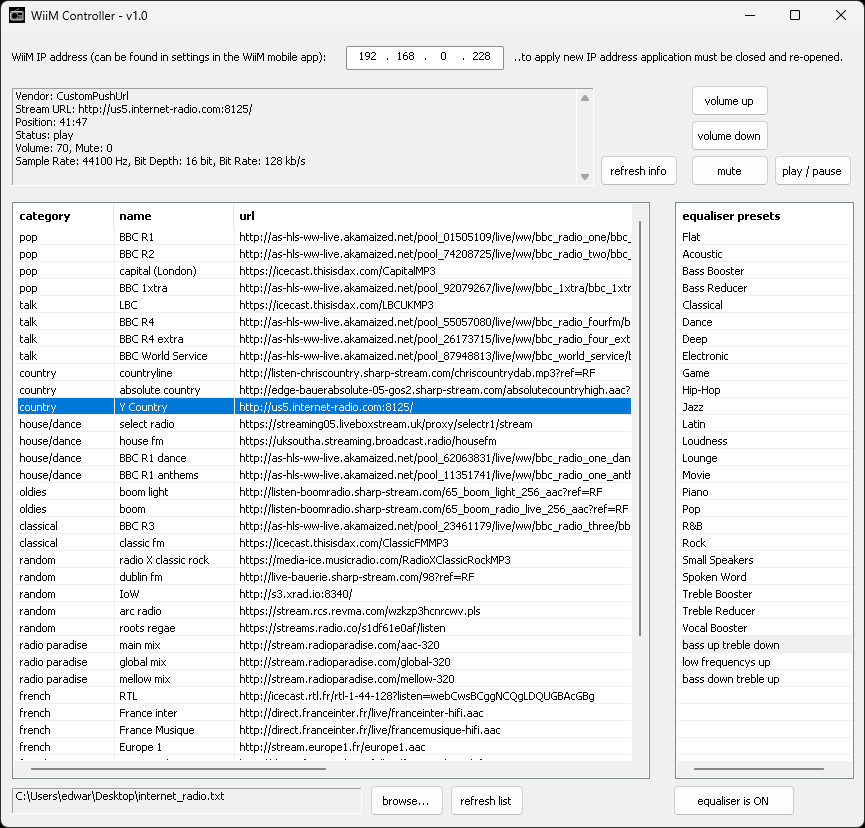
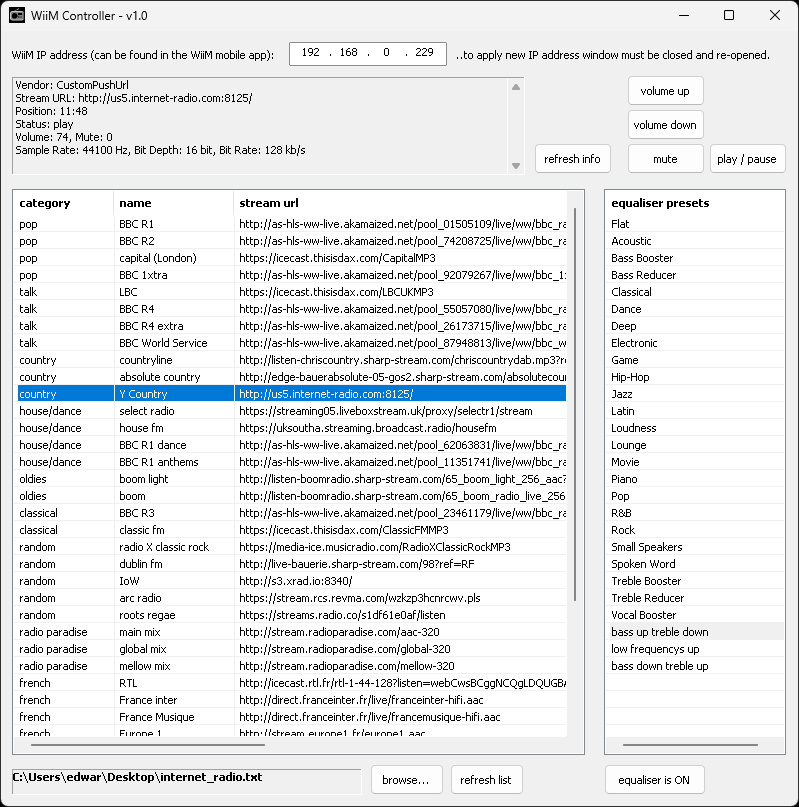
restore wnd position

diff --git a/WiiMControllerDlg.cpp b/WiiMControllerDlg.cpp
@@ -37,7 +37,8 @@ void CWiiMControllerDlg::DoDataExchange(CDataExchange* pDX)
 BEGIN_MESSAGE_MAP(CWiiMControllerDlg, CDialog)
 	ON_WM_PAINT()
 	ON_WM_QUERYDRAGICON()
-	
+	ON_WM_DESTROY()
+
 	ON_NOTIFY(LVN_ITEMCHANGED,IDC_LIST_STREAMURL,&CWiiMControllerDlg::OnLvnItemchangedListStreamurl)
 	ON_NOTIFY(LVN_ITEMCHANGED,IDC_LIST_EQ,&CWiiMControllerDlg::OnLvnItemchangedListEq)
 	ON_NOTIFY(IPN_FIELDCHANGED,IDC_IPADDRESS_WIIM,&CWiiMControllerDlg::OnIpnFieldchangedIpaddressWiim)
@@ -75,27 +76,41 @@ BOOL CWiiMControllerDlg::OnInitDialog()
 	m_IPCtrl.SetAddress(m_IPAddress.Field0, m_IPAddress.Field1, m_IPAddress.Field2, m_IPAddress.Field3);
 	m_httpClient.SetWiimIPaddress(m_IPAddress.Field0, m_IPAddress.Field1, m_IPAddress.Field2, m_IPAddress.Field3); // (192.168.0.228 in my case)
 
-	m_StreamsFilepath = AfxGetApp()->GetProfileString(REG_SECTION, _T("StreamsFilepath"), _T(""));
-	GetDlgItem(IDC_EDIT_STREAMSFILE)->SetWindowText(m_StreamsFilepath);
-
 	// stream url list initialisation
 	m_ListStream.SetExtendedStyle(LVS_EX_FULLROWSELECT | LVS_EX_GRIDLINES);
 	m_ListStream.InsertColumn(0, _T("category"), LVCFMT_LEFT, 100);
 	m_ListStream.InsertColumn(1, _T("name"), LVCFMT_LEFT, 120);
-	m_ListStream.InsertColumn(2, _T("url"), LVCFMT_LEFT, 1000);
+	m_ListStream.InsertColumn(2, _T("stream url"), LVCFMT_LEFT, 1000);
+
+	m_StreamsFilepath = AfxGetApp()->GetProfileString(REG_SECTION, _T("StreamsFilepath"), _T(""));
+	GetDlgItem(IDC_EDIT_STREAMSFILE)->SetWindowText(m_StreamsFilepath);
 	LoadStreamUrlList();
 
 	// equaliser presets list initialisation
 	m_ListEQ.SetExtendedStyle(LVS_EX_FULLROWSELECT | LVS_EX_GRIDLINES);
 	m_ListEQ.InsertColumn(0, _T("equaliser presets"), LVCFMT_LEFT, 190);
 
+	if(GetInfoFromDeviceAndPopulateUI()){
+		SelectListItems();
+		m_Initialised = 1; // this must after the list control SetItemState/EnsureVisible calls because they will trigger a OnLvnItemchangedListStreamurl event.
+	}
+	
+	ApplyCustomFont();
+	RestoreWindowPos();
+	UpdateStatusEditBox();
+
+	return TRUE;  // return TRUE unless you set the focus to a control
+}
+
+void CWiiMControllerDlg::ApplyCustomFont()
+{
 	// create bold font once
 	CFont* pDlgFont = GetFont();
 	if (pDlgFont) {
 		LOGFONT lf;
 		pDlgFont->GetLogFont(&lf);
 		lf.lfWeight = FW_BOLD;
-	//	lf.lfHeight -= 2;
+		//	lf.lfHeight -= 2;
 		m_HeaderFont.DeleteObject();
 		m_HeaderFont.CreateFontIndirect(&lf);
 	}
@@ -105,15 +120,59 @@ BOOL CWiiMControllerDlg::OnInitDialog()
 	if(CHeaderCtrl* ph2 = m_ListEQ.GetHeaderCtrl())
 		ph2->SetFont(&m_HeaderFont);
 
-//	GetDlgItem(IDC_EDIT_STREAMSFILE)->SetFont(&m_HeaderFont);
+	GetDlgItem(IDC_EDIT_STREAMSFILE)->SetFont(&m_HeaderFont);
+}
 
-	if(GetInfoFromDeviceAndPopulateUI()){
-		SelectListItems();
-		m_Initialised = 1; // this must after the list control SetItemState/EnsureVisible calls because they will trigger a OnLvnItemchangedListStreamurl event.
+void CWiiMControllerDlg::RestoreWindowPos()
+{
+	// restore window pos/size if saved
+	const int UNSET = -99999;
+	int left = AfxGetApp()->GetProfileInt(REG_SECTION, _T("Left"), UNSET);
+	if(left != UNSET){
+		int top = AfxGetApp()->GetProfileInt(REG_SECTION, _T("Top"), 0);
+		int width = AfxGetApp()->GetProfileInt(REG_SECTION, _T("Width"), 800);
+		int height = AfxGetApp()->GetProfileInt(REG_SECTION, _T("Height"), 600);
+		CRect rc(left, top, left + width, top + height);
+		// Ensure rect maps to a monitor (avoid restoring off-screen)
+		HMONITOR hm = MonitorFromRect(rc, MONITOR_DEFAULTTONULL);
+		if(hm){
+			MoveWindow(&rc);
+			int show = AfxGetApp()->GetProfileInt(REG_SECTION, _T("ShowCmd"), SW_SHOWNORMAL);
+			if(show == SW_SHOWMAXIMIZED || show == SW_MAXIMIZE)
+				ShowWindow(SW_MAXIMIZE);
+		}
 	}
-	UpdateStatusEditBox();
+}
 
-	return TRUE;  // return TRUE unless you set the focus to a control
+void CWiiMControllerDlg::OnDestroy()
+{
+	// capture IP before calling base
+	IPADDRESS Temp;
+	m_IPCtrl.GetAddress(Temp.Field0, Temp.Field1, Temp.Field2, Temp.Field3);
+	if(Temp.Field0 != m_IPAddress.Field0)
+		AfxGetApp()->WriteProfileInt(REG_SECTION, _T("IP_Field0"), Temp.Field0);
+	if(Temp.Field1 != m_IPAddress.Field1)
+		AfxGetApp()->WriteProfileInt(REG_SECTION, _T("IP_Field1"), Temp.Field1);
+	if(Temp.Field2 != m_IPAddress.Field2)
+		AfxGetApp()->WriteProfileInt(REG_SECTION, _T("IP_Field2"), Temp.Field2);
+	if(Temp.Field3 != m_IPAddress.Field3)
+		AfxGetApp()->WriteProfileInt(REG_SECTION, _T("IP_Field3"), Temp.Field3);
+
+	// capture placement before calling base
+	WINDOWPLACEMENT wp = {};
+	wp.length = sizeof(wp);
+	if (GetWindowPlacement(&wp)) {
+		// wp.rcNormalPosition is the normal (restored) rectangle
+		CRect r = wp.rcNormalPosition;
+		AfxGetApp()->WriteProfileInt(REG_SECTION, _T("Left"), r.left);
+		AfxGetApp()->WriteProfileInt(REG_SECTION, _T("Top"), r.top);
+		AfxGetApp()->WriteProfileInt(REG_SECTION, _T("Width"), r.Width());
+		AfxGetApp()->WriteProfileInt(REG_SECTION, _T("Height"), r.Height());
+		AfxGetApp()->WriteProfileInt(REG_SECTION, _T("ShowCmd"), wp.showCmd);
+	}
+
+	CDialog::OnDestroy();
+	// TODO: Add your message handler code here
 }
 
 // If you add a minimize button to your dialog, you will need the code below to draw the icon. For MFC 
@@ -249,13 +308,13 @@ void CWiiMControllerDlg::LoadEqualiserPresetsList(char *str)
 	}
 }
 
-int CWiiMControllerDlg::LoadStreamUrlsFromFile(const CString& filePath)
+int CWiiMControllerDlg::LoadStreamUrlsFromFile()
 {
 	m_UrlsErrorLog.Empty();
 
 	CStdioFile file;
-	if(!file.Open(filePath, CFile::modeRead | CFile::typeText)){
-		m_UrlsErrorLog += _T("\r\n Error opening direct stream urls file : ") + filePath;
+	if(!file.Open(m_StreamsFilepath, CFile::modeRead | CFile::typeText)){
+		m_UrlsErrorLog += _T("\r\n Error opening direct stream urls file : ") + m_StreamsFilepath;
 		return 0;
 	}
 
@@ -341,7 +400,7 @@ void CWiiMControllerDlg::OnBnClickedBtnToggleEq()
 
 void CWiiMControllerDlg::LoadStreamUrlList()
 {
-	if(LoadStreamUrlsFromFile(m_StreamsFilepath)){
+	if(LoadStreamUrlsFromFile()){
 		for(int i=0; i<m_StreamURLs.size(); i++){
 			int item = m_ListStream.InsertItem(i, m_StreamURLs[i].category);
 			m_ListStream.SetItemText(item, 1, m_StreamURLs[i].name);
@@ -482,22 +541,7 @@ void CWiiMControllerDlg::OnIpnFieldchangedIpaddressWiim(NMHDR *pNMHDR, LRESULT *
 	LPNMIPADDRESS pIPAddr = reinterpret_cast<LPNMIPADDRESS>(pNMHDR);
 	// TODO: Add your control notification handler code here
 	*pResult = 0;
-	// not using this... instead I will retrieve the IP address in DestroyWindow and save it to the registry there.
-}
-
-BOOL CWiiMControllerDlg::DestroyWindow()
-{
-	IPADDRESS Temp;
-	m_IPCtrl.GetAddress(Temp.Field0, Temp.Field1, Temp.Field2, Temp.Field3);
-	if(Temp.Field0 != m_IPAddress.Field0)
-		AfxGetApp()->WriteProfileInt(REG_SECTION, _T("IP_Field0"), Temp.Field0);
-	if(Temp.Field1 != m_IPAddress.Field1)
-		AfxGetApp()->WriteProfileInt(REG_SECTION, _T("IP_Field1"), Temp.Field1);
-	if(Temp.Field2 != m_IPAddress.Field2)
-		AfxGetApp()->WriteProfileInt(REG_SECTION, _T("IP_Field2"), Temp.Field2);
-	if(Temp.Field3 != m_IPAddress.Field3)
-		AfxGetApp()->WriteProfileInt(REG_SECTION, _T("IP_Field3"), Temp.Field3);
-	return CDialog::DestroyWindow();
+	// not using this... instead I will retrieve the IP address in the destroy window handler and save it to the registry there.
 }
 
 /* NOTES

diff --git a/WiiMControllerDlg.h b/WiiMControllerDlg.h
@@ -7,6 +7,7 @@
 #include "Network.h"
 #include <vector>
 
+
 struct STREAMINFO
 {
 	CString category, name, url;
@@ -36,13 +37,15 @@ public:
 	IPADDRESS               m_IPAddress;
 	int                     m_ListStream_SelectedIndex;
 
-	int  LoadStreamUrlsFromFile(const CString& filePath);
+	int  LoadStreamUrlsFromFile();
 	void LoadStreamUrlList();
 	void UpdatePlayerStatusString();
 	void LoadEqualiserPresetsList(char *str);
 	void SelectListItems();
 	void UpdateStatusEditBox();
 	int  GetInfoFromDeviceAndPopulateUI();
+	void RestoreWindowPos();
+	void ApplyCustomFont();
 
 // Dialog Data
 #ifdef AFX_DESIGN_TIME
@@ -58,7 +61,6 @@ protected:
 	// Generated message map functions
 	virtual void DoDataExchange(CDataExchange* pDX);	// DDX/DDV support
 	virtual BOOL OnInitDialog();
-	virtual BOOL DestroyWindow();
 	afx_msg void OnPaint();
 	afx_msg HCURSOR OnQueryDragIcon();
 
@@ -75,4 +77,5 @@ public:
 	afx_msg void OnBnClickedBtnMute();
 	afx_msg void OnBnClickedBtnTogglePlay();
 	afx_msg void OnIpnFieldchangedIpaddressWiim(NMHDR *pNMHDR,LRESULT *pResult);
+	afx_msg void OnDestroy();
 };

diff --git a/resource.h b/resource.h
@@ -18,6 +18,8 @@
 #define IDC_BTN_TOGGLE_PLAY             1026
 #define IDC_IPADDRESS1                  1027
 #define IDC_IPADDRESS_WIIM              1027
+#define IDC_STATIC_IP1                  1028
+#define IDC_STATIC_IP2                  1029
 
 // Next default values for new objects
 // 
@@ -25,7 +27,7 @@
 #ifndef APSTUDIO_READONLY_SYMBOLS
 #define _APS_NEXT_RESOURCE_VALUE        131
 #define _APS_NEXT_COMMAND_VALUE         32771
-#define _APS_NEXT_CONTROL_VALUE         1028
+#define _APS_NEXT_CONTROL_VALUE         1030
 #define _APS_NEXT_SYMED_VALUE           101
 #endif
 #endif
